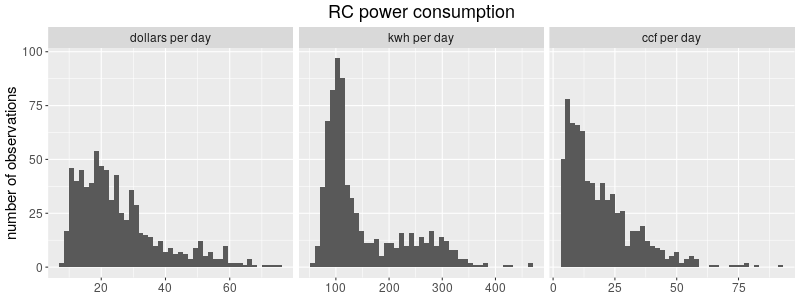
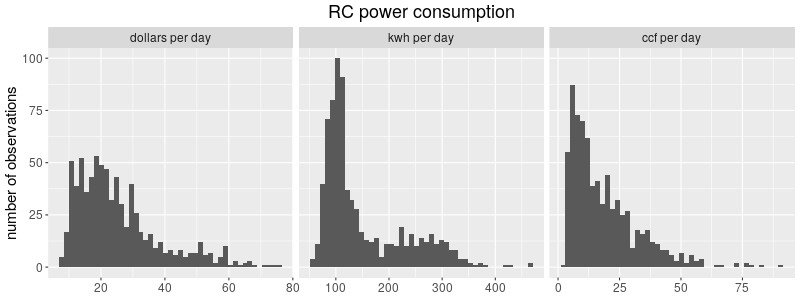
auto commit

diff --git a/index.html b/index.html
@@ -3,7 +3,7 @@
 "http://www.w3.org/TR/xhtml1/DTD/xhtml1-strict.dtd">
 <html xmlns="http://www.w3.org/1999/xhtml" lang="en" xml:lang="en">
 <head>
-<!-- 2018-07-15 Sun 05:13 -->
+<!-- 2018-08-20 Mon 15:48 -->
 <meta http-equiv="Content-Type" content="text/html;charset=utf-8" />
 <meta name="viewport" content="width=device-width, initial-scale=1" />
 <title>Chapin Mill Energy</title>
@@ -252,13 +252,13 @@ for the JavaScript code in this tag.
 <body>
 <div id="content">
 <h1 class="title">Chapin Mill Energy</h1>
-<div id="outline-container-org25cf3c4" class="outline-2">
-<h2 id="org25cf3c4">Energy Comparisons</h2>
-<div class="outline-text-2" id="text-org25cf3c4">
+<div id="outline-container-orgfd4360c" class="outline-2">
+<h2 id="orgfd4360c">Energy Comparisons</h2>
+<div class="outline-text-2" id="text-orgfd4360c">
 </div>
-<div id="outline-container-orgde46dfd" class="outline-3">
-<h3 id="orgde46dfd">Energy Consumption and Weather</h3>
-<div class="outline-text-3" id="text-orgde46dfd">
+<div id="outline-container-org738efa4" class="outline-3">
+<h3 id="org738efa4">Energy Consumption and Weather</h3>
+<div class="outline-text-3" id="text-org738efa4">
 <p>
 The plot below describes outdoor air temperatures and the rate of
 retreat center energy consumption for the past few months. These
@@ -320,7 +320,7 @@ To be slightly more precise, 95% of the time the observed
 electricity power consumption was less than <code>310</code>
 kWh per day, gas consumption was less than
 <code>46</code> hundred cubic feet per day and the
-overall energy cost was less than <code>54</code> dollars per
+overall energy cost was less than <code>53</code> dollars per
 day.
 </p>
 
@@ -407,9 +407,9 @@ the results would not be very interesting.
 </div>
 </div>
 
-<div id="outline-container-org2909a32" class="outline-3">
-<h3 id="org2909a32">Natural gas</h3>
-<div class="outline-text-3" id="text-org2909a32">
+<div id="outline-container-orgd1d2e7f" class="outline-3">
+<h3 id="orgd1d2e7f">Natural gas</h3>
+<div class="outline-text-3" id="text-orgd1d2e7f">
 <p>
 For a given level of occupancy of the retreat center it would be
 natural to consider gas consumption as consisting of two parts:
@@ -522,9 +522,9 @@ predictions for times that are either idle, sesshin, SIMT or UR.)
 </div>
 </div>
 
-<div id="outline-container-org2adbce6" class="outline-3">
-<h3 id="org2adbce6">Electricity</h3>
-<div class="outline-text-3" id="text-org2adbce6">
+<div id="outline-container-orga02494b" class="outline-3">
+<h3 id="orga02494b">Electricity</h3>
+<div class="outline-text-3" id="text-orga02494b">
 <p>
 For the period under consideration electricity usage did not vary
 with outside air temperature in a significant way. The data only
@@ -599,9 +599,9 @@ dollars respectively.
 </div>
 </div>
 
-<div id="outline-container-org4e26a15" class="outline-2">
-<h2 id="org4e26a15">Details</h2>
-<div class="outline-text-2" id="text-org4e26a15">
+<div id="outline-container-orgad6403a" class="outline-2">
+<h2 id="orgad6403a">Details</h2>
+<div class="outline-text-2" id="text-orgad6403a">
 <p>
 The natural gas model is
 \[
@@ -794,7 +794,7 @@ where \(y\) is electricity consumption in kWh per day and the
 </div>
 </div>
 <div id="postamble" class="status">
-<p class="date">Created: 2018-07-15 Sun 05:13</p>
+<p class="date">Created: 2018-08-20 Mon 15:48</p>
 <p class="validation"><a href="http://validator.w3.org/check?uri=referer">Validate</a></p>
 </div>
 </body>
